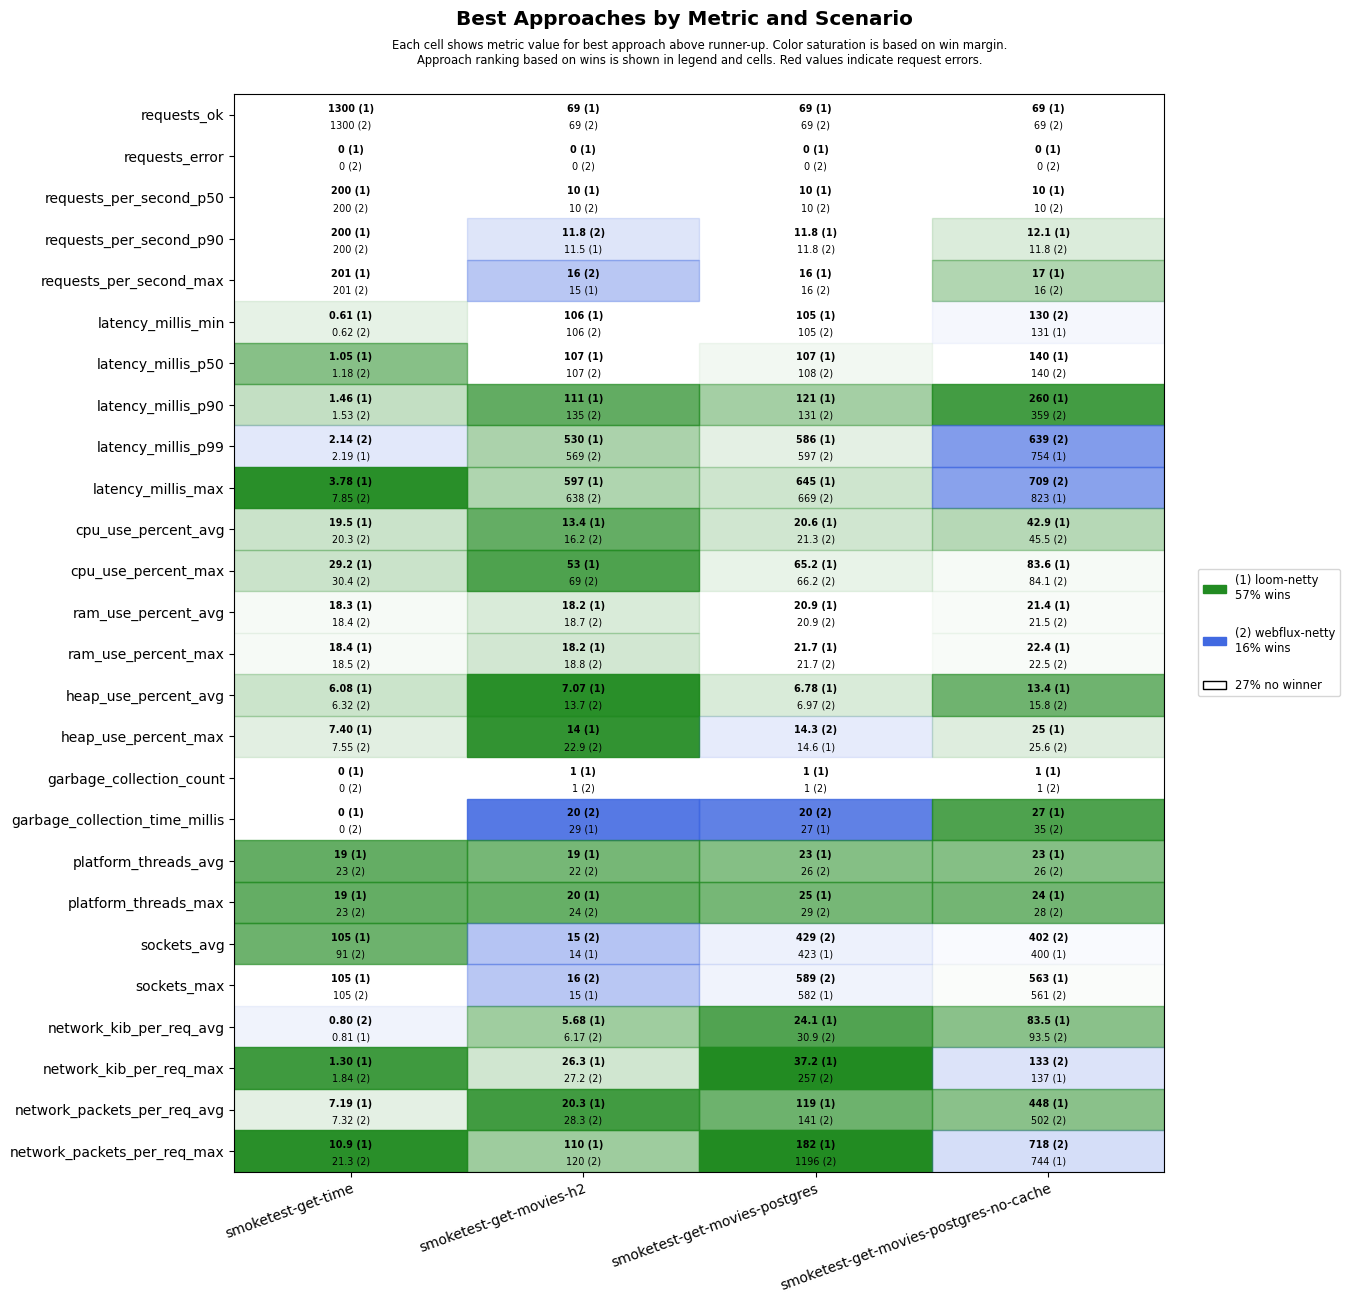
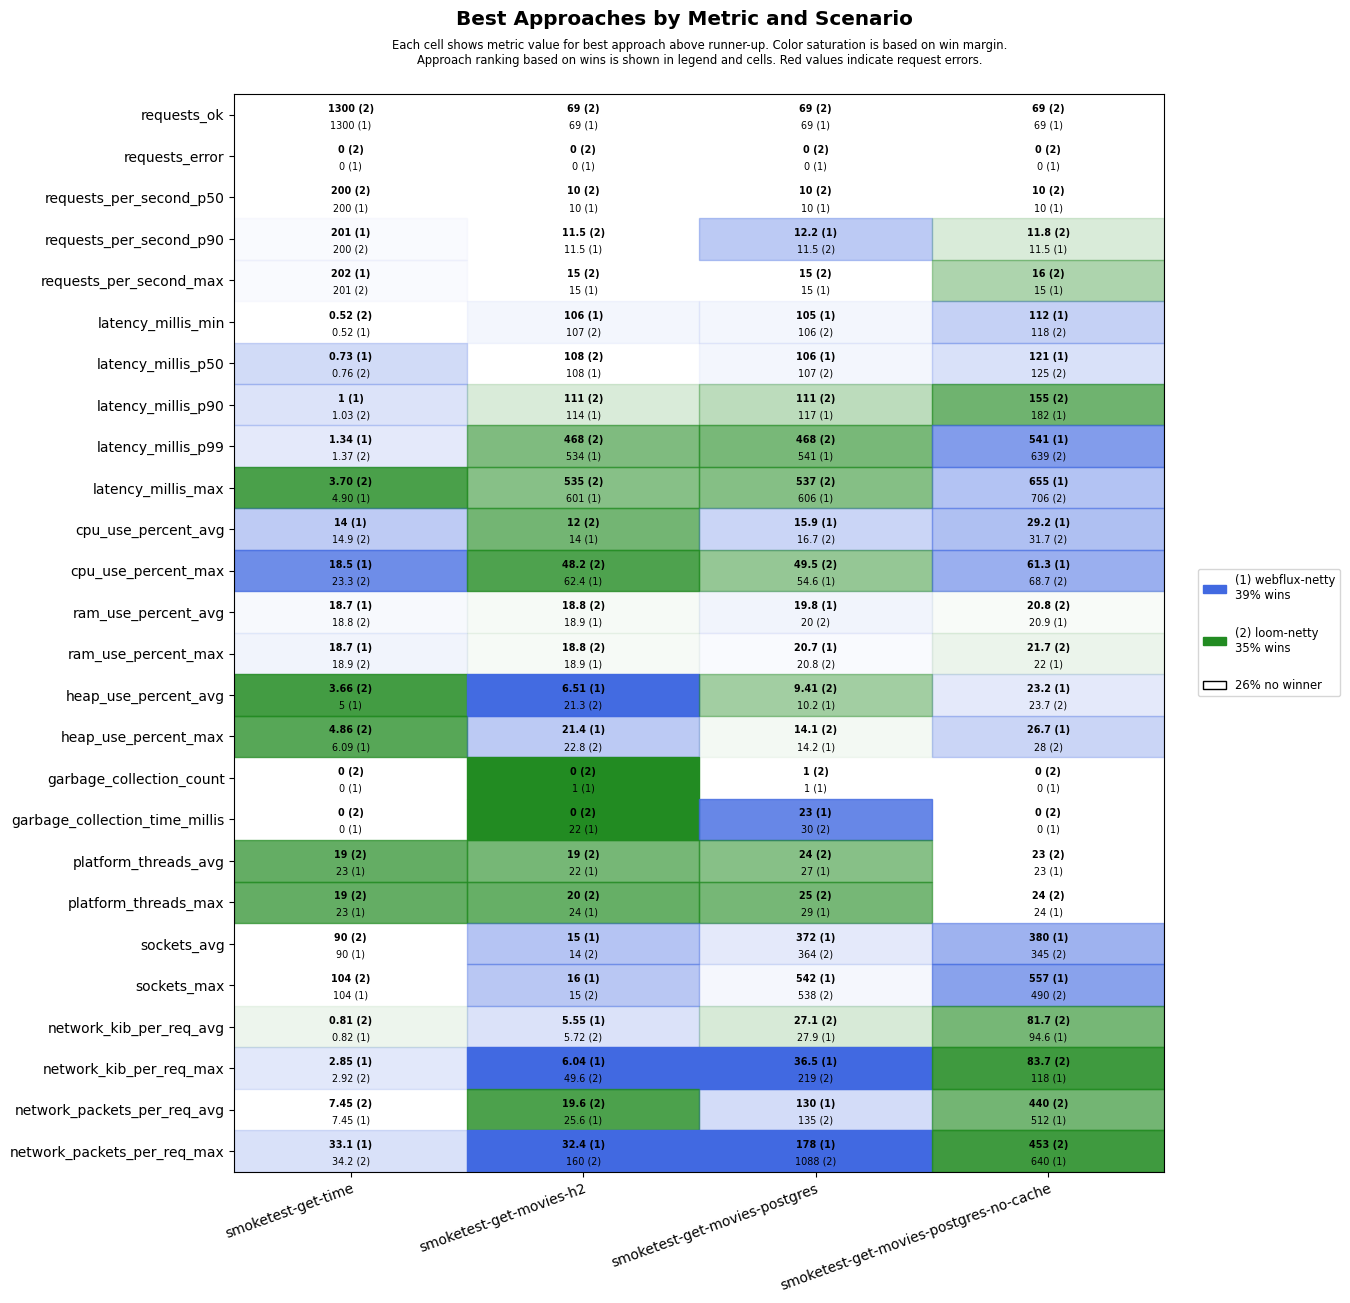
Apply automatic changes

diff --git a/results/ci/scenarios-smoketest/ubuntu-24.04/java-21/results.md b/results/ci/scenarios-smoketest/ubuntu-24.04/java-21/results.md
@@ -4,23 +4,23 @@
 
 | **Name**                | **Value** |
 |-------------------------|-----------|
-| **Start (UTC)** | 2026-10-26 11:09:15 |
-| **End (UTC)** | 2026-10-26 11:29:08 |
-| **Duration (hh:mm:ss)** | 00:19:53 |
+| **Start (UTC)** | 2026-11-23 12:45:47 |
+| **End (UTC)** | 2026-11-23 13:04:45 |
+| **Duration (hh:mm:ss)** | 00:18:58 |
 
 ## System Specs
 
 | **Name**                | **Value** |
 |-------------------------|-----------|
-| **Java** | OpenJDK 64-Bit Server VM Corretto-21.0.13.0.10 (build 21.0.13+10-LTS, mixed mode, sharing) |
-| **Spring Boot** | 4.1.2 |
+| **Java** | OpenJDK 64-Bit Server VM Corretto-21.0.13.1.2 (build 21.0.13.1+2-LTS, mixed mode, sharing) |
+| **Spring Boot** | 4.1.3 |
 | **Python** | 3.12.3 |
 | **OS** | Ubuntu 24.04.5 LTS |
-| **Kernel** | 6.17.0-1022-azure |
-| **CPU** | AMD EPYC 7763 64-Core Processor |
+| **Kernel** | 7.0.0-1014-aws |
+| **CPU** | Intel(R) Xeon(R) 6975P-C |
 | **CPU Cores** | 4 |
 | **RAM** | 15Gi total, 12Gi available |
-| **Disk** | 158G total, 96G available |
+| **Disk** | 156G total, 97G available |
 
 ## Scenarios
 
